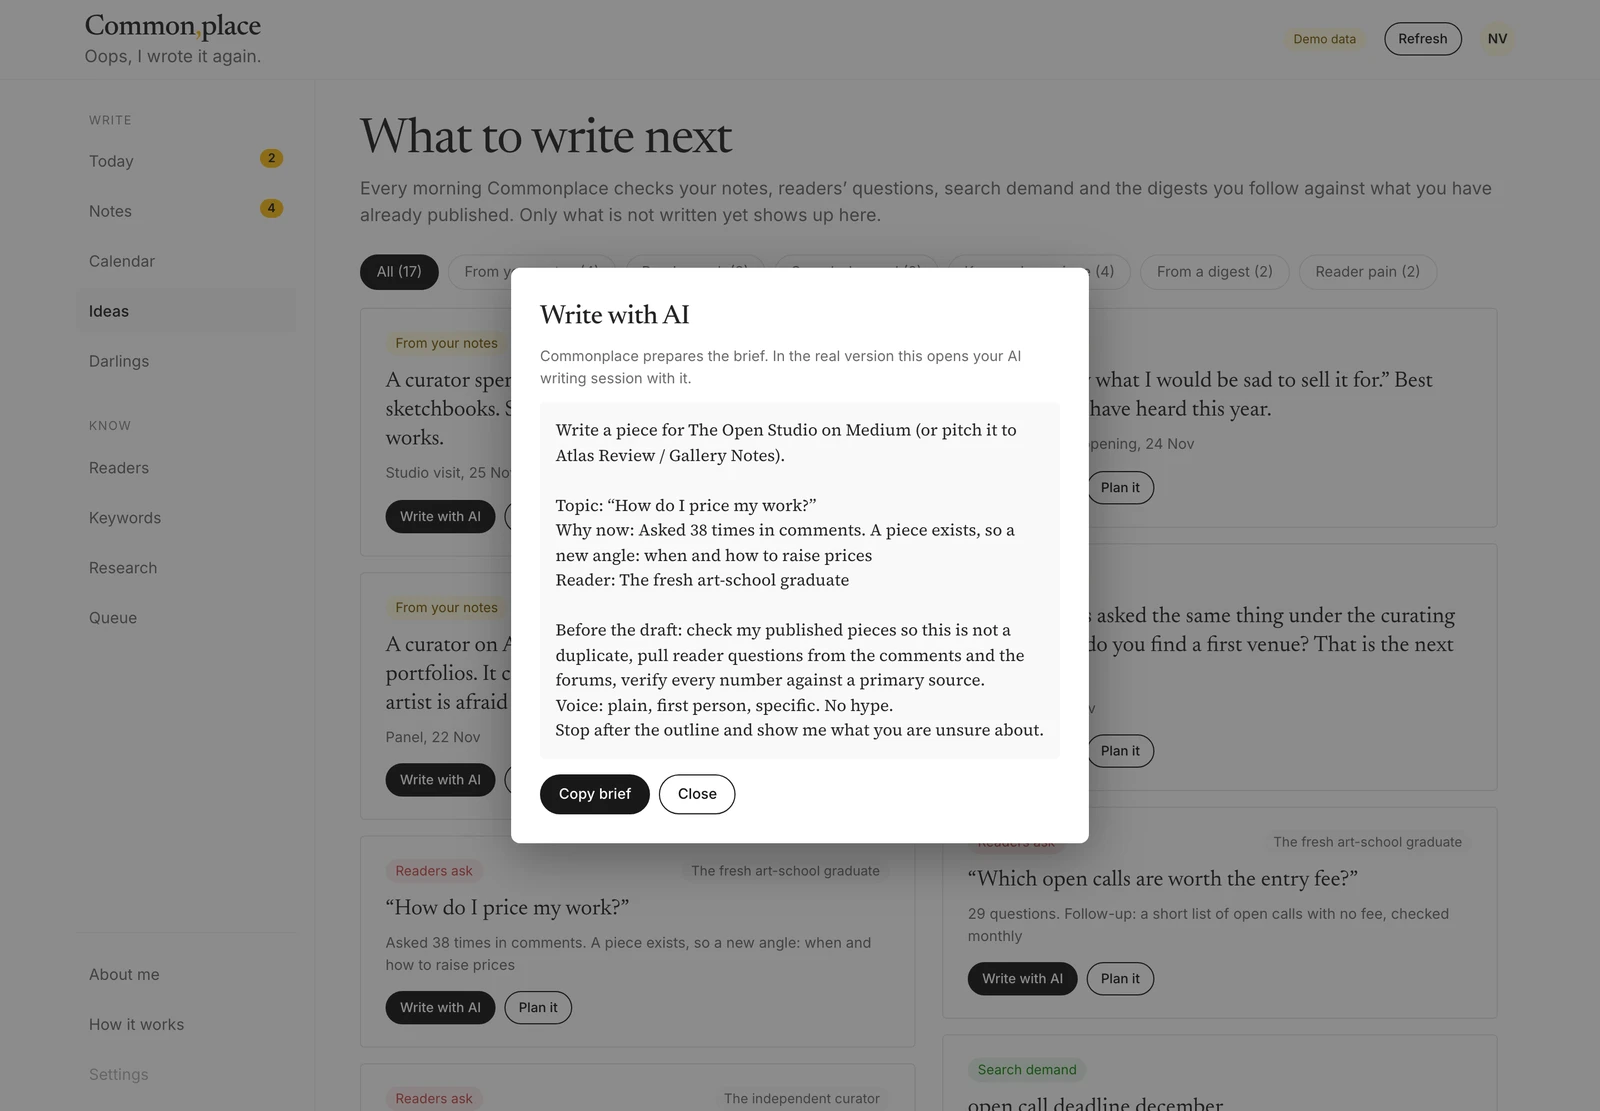
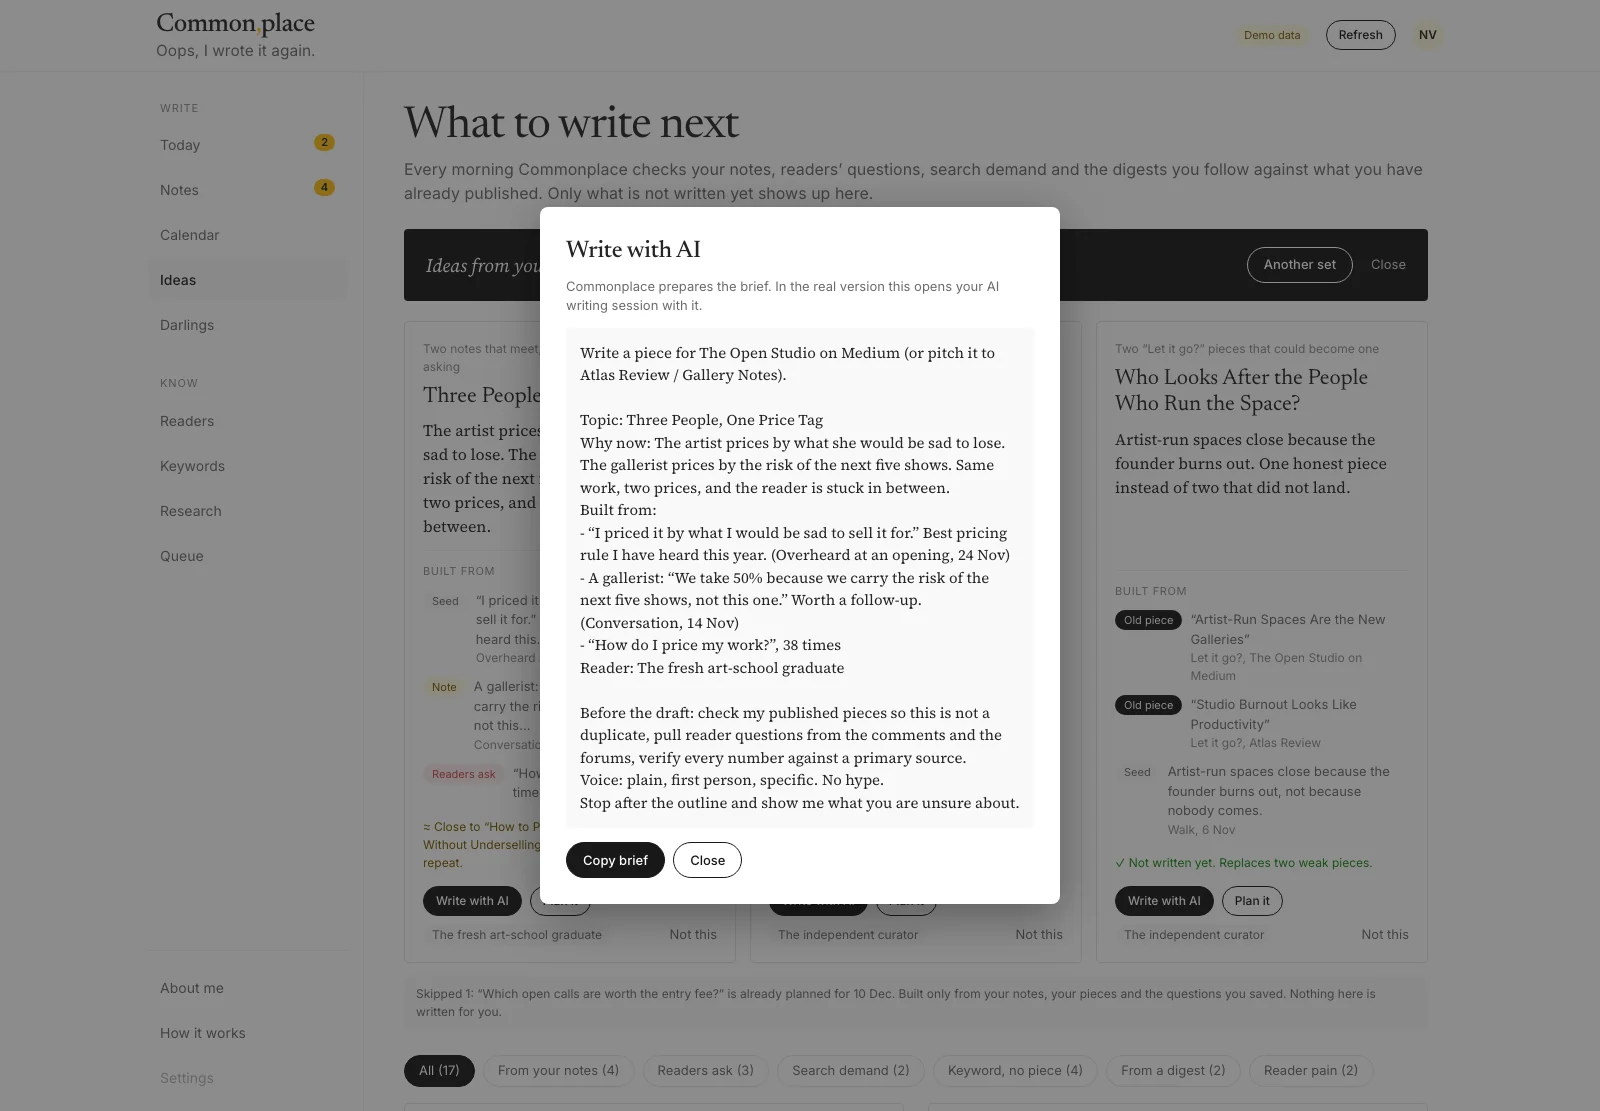
Ideas: Empty head, ideas put together from her own notes, pieces and saved questions (two sets of three, Built from, duplicate check, Write with AI / Plan it). Case: 16:00 becomes the empty-head moment, 16:15 takes its first idea to the brief; a fifth need

diff --git a/index.html b/index.html
@@ -278,6 +278,26 @@ button,a,.chip,.nav{-webkit-tap-highlight-color:transparent;touch-action:manipul
   .pm td{display:block;border:0;padding:2px 0}
   .pm td[data-k]::before{content:attr(data-k) ": ";color:var(--muted)}
 }
+/* ---- Ideas: empty head, ideas put together from the writer's own notes and pieces ---- */
+.ehead{display:flex;gap:12px 18px;align-items:center;flex-wrap:wrap;background:var(--ink2);color:#fff;border-radius:4px;padding:18px 22px;margin:0 0 20px}
+.ehead .q{font-family:var(--serif);font-style:italic;font-size:19px;line-height:1.4;flex:1;min-width:240px}
+.ehead .btn{background:var(--yellow);border-color:var(--yellow);color:var(--ink2)}
+.ehead .btn.o{background:transparent;border-color:#fff;color:#fff}
+.ehead .link{color:#fff;opacity:.8}
+.vars{display:grid;grid-template-columns:repeat(3,minmax(0,1fr));gap:14px}
+@media(max-width:1250px){.vars{grid-template-columns:minmax(0,1fr)}}
+.var{border:1px solid var(--line2);border-radius:4px;padding:18px 18px 16px;background:#fff;display:flex;flex-direction:column;min-width:0}
+.var .rec{font-size:12px;color:var(--muted);margin-bottom:8px}
+.var .vt{font-family:var(--display);font-size:22px;line-height:1.2;margin:0 0 8px}
+.var .ang{font-family:var(--serif);font-size:16px;line-height:1.5;color:var(--ink);margin:0 0 12px}
+.var .from{border-top:1px solid var(--line);padding-top:8px;margin-top:auto}
+.var .from .fk{font-size:11px;color:var(--muted);text-transform:uppercase;letter-spacing:.06em;margin:4px 0 6px}
+.var .from .it{display:flex;gap:8px;align-items:flex-start;padding:5px 0;font-size:13px;color:var(--body)}
+.var .from .it .pill{flex:none;height:20px;font-size:11px}
+.var .from .it .w2{display:block;font-size:12px;color:var(--muted)}
+.var .chk{font-size:12px;color:var(--green);margin:10px 0 0}
+.var .chk.w{color:#7A5A00}
+.ehskip{background:var(--soft);border-radius:4px;padding:10px 12px;font-size:12px;color:var(--body);margin-top:12px}
 </style>
 </head>
 <body>
@@ -448,8 +468,37 @@ function ideasAll(){
 function vIdeas(){
   const all=ideasAll(), l=all.map((i,ix)=>({i,ix})).filter(({i})=>iF==='all'||i.source===iF), c={};all.forEach(i=>c[i.source]=(c[i.source]||0)+1);
   return `<h1>What to write next</h1><p class="lede">Every morning Commonplace checks your notes, readers’ questions, search demand and the digests you follow against what you have already published. Only what is not written yet shows up here.</p>
+  ${emptyHead()}
   <div class="chips">${[['all','All ('+all.length+')']].concat(Object.keys(SRC).filter(k=>c[k]).map(k=>[k,SRC[k][0]+' ('+c[k]+')'])).map(([k,l])=>`<button class="chip ${iF===k?'on':''}" data-if="${k}">${esc(l)}</button>`).join('')}</div>
   ${twoCols(l,idea)}`;
+}
+// Empty head: a few ideas put together from the writer's own notes, pieces and saved questions.
+// The sets are in the data as references; dates, titles and groups are read from the data here.
+let eh=-1;const ehNo=new Set();
+const ehSets=()=>D.empty_head||[];
+const cut=(s,n)=>{s=String(s||'');return s.length>n?s.slice(0,n).replace(/\s+\S*$/,'')+'…':s;};
+function ehRef(f){
+  if(f.note){const n=notesAll().find(x=>x.id===f.note);if(!n)return null;return [n.status==='seed'?'Seed':'Note',n.status==='seed'?'':'yp',cut(n.text,90),`${n.source}, ${fdate(n.date)}`];}
+  if(f.piece){const a=art(f.piece);return ['Old piece','k',`“${a.title}”`,`${GN[a.group]||''}, ${a.publication}`];}
+  if(f.ask)return ['Readers ask','r',`${f.ask}, ${f.n} times`];
+  if(f.digest)return ['Digest','g',f.digest];
+  if(f.pain)return ['Reader pain','',f.pain];
+  return null;}
+const ehVar=(s,i)=>ehSets()[s].vars[i];
+// in the brief the notes go in full, one per line
+const ehWhy=v=>`${v.angle}\nBuilt from:\n${v.from.map(f=>{const n=f.note&&notesAll().find(x=>x.id===f.note),r=ehRef(f);if(!r)return'';return '- '+(n?`${n.text} (${n.source}, ${fdate(n.date)})`:r[2]+(r[3]?' ('+r[3]+')':''));}).filter(Boolean).join('\n')}`;
+function emptyHead(){
+  const S=ehSets();if(!S.length)return'';
+  if(eh<0)return `<div class="ehead"><div class="q">Empty head today? Commonplace can put a few ideas together from your own notes and pieces.</div><button class="btn" data-eh="0">Put something together</button></div>`;
+  const s=S[eh],vs=s.vars.map((v,i)=>({v,i})).filter(({i})=>!ehNo.has(eh+'-'+i));
+  const pl=calAll().find(e=>e.id===s.skip.plan);
+  return `<div class="ehead"><div class="q">${vs.length?'Ideas from your own notes and pieces. Pick one, or ask for another set.':'Nothing left in this set.'}</div><button class="btn o" data-eh="next">Another set</button><button class="link" data-eh="close">Close</button></div>
+   <div class="vars">${vs.map(({v,i})=>{const c=v.check.close?art(v.check.close):null;return `<div class="var"><div class="rec">${esc(v.recipe)}</div><div class="vt">${esc(v.title)}</div><p class="ang">${esc(v.angle)}</p>
+    <div class="from"><div class="fk">Built from</div>${v.from.map(ehRef).filter(Boolean).map(([p,c2,t,w])=>`<div class="it"><span class="pill ${c2}">${esc(p)}</span><span>${esc(t)}${w?`<span class="w2">${esc(w)}</span>`:''}</span></div>`).join('')}</div>
+    <p class="chk ${c?'w':''}">${c?`≈ Close to “${esc(c.title)}” (${esc(GN[c.group])}). `:'✓ '}${esc(v.check.text)}</p>
+    <div class="acts"><button class="btn sm" data-eh-write="${eh}-${i}">Write with AI</button><button class="btn sm o" data-eh-plan="${eh}-${i}">Plan it</button><span class="pill">${esc(persona(v.reader))}</span><button class="link" data-eh-no="${eh}-${i}" style="margin-left:auto;color:var(--body)">Not this</button></div></div>`;}).join('')}</div>
+   <div class="ehskip">Skipped 1: ${esc(s.skip.ask)} is already planned${pl?' for '+esc(fdate(pl.date)):''}. Built only from your notes, your pieces and the questions you saved. Nothing here is written for you.</div>
+   <div style="height:24px"></div>`;
 }
 const ideaTitle=i=>i.source==='pain'||i.source==='note'||i.source==='telegram'||i.source==='painmap'?i.cluster:i.keyword;
 function idea({i,ix}){
@@ -589,6 +638,10 @@ document.addEventListener('click',e=>{
   else if(s.more){MORE[s.more]=!MORE[s.more];render();}
   else if(s.df){dFilter=s.df;render();} else if(s.kf){kwF=s.kf;render();} else if(s.if){iF=s.if;render();} else if(s.nf){nF=s.nf;render();} else if(s.ra){rAud=s.ra;render();}
   else if(s.mini){miniF=s.mini;render();}
+  else if(s.eh){eh=s.eh==='close'?-1:s.eh==='next'?(eh+1)%ehSets().length:+s.eh;render();}
+  else if(s.ehNo){ehNo.add(s.ehNo);render();}
+  else if(s.ehWrite){const [a,b]=s.ehWrite.split('-').map(Number),v=ehVar(a,b);writeDialog(v.title,ehWhy(v),v.reader);}
+  else if(s.ehPlan){const [a,b]=s.ehPlan.split('-').map(Number);planDialog({title:ehVar(a,b).title});}
   else if(s.cal){calOff+=+s.cal;render();} else if(s.layer){layers[s.layer]=!layers[s.layer];render();}
   else if(s.open){tab='darlings';dFilter='all';render();const el=document.getElementById('a-'+s.open);if(el){el.scrollIntoView({block:'start'});scrollBy(0,-72);}}
   else if(s.planNew){planDialog({});}

diff --git a/day.html b/day.html
@@ -199,6 +199,7 @@ footer{border-top:1px solid var(--line);padding-block:32px 64px;font-size:14px;c
       <li><span>When I start the day</span><b>I want to see what needs me first, before I open five tabs.</b></li>
       <li><span>When I notice something</span><b>I want to keep it in one place, so it can grow into a piece.</b></li>
       <li><span>When I choose the next topic</span><b>I want evidence that readers ask for it and that I have not written it already.</b></li>
+      <li><span>When nothing comes</span><b>I want a few ideas made from what I already have, not a blank page.</b></li>
       <li><span>When a plan slips</span><b>I want the calendar to tell me honestly.</b></li>
     </ul>
   </div>
@@ -248,18 +249,18 @@ footer{border-top:1px solid var(--line);padding-block:32px 64px;font-size:14px;c
 <article class="scene" id="t1600">
   <div class="time"><b>16:00</b><span>Café, late lunch</span><img class="ill" src="shots/day/nora-gpt-e/1600.webp" width="402" height="402" alt="Nora at a cafe table, lunch and laptop"></div>
   <div class="story">
-    <p class="say">“What should I write next?”</p>
-    <p>Over a late lunch in a café, she opens Ideas on the laptop. It collects five sources: her own notes, readers' questions from the comments, search demand, keywords with no piece yet, and the digests she follows. Each one is checked against what she has already published.</p>
-    <div class="why"><div class="k">Why it looks like this</div><p>Every idea says where it comes from and why now. A second piece on a topic that already has one is easy to write by accident; here it cannot show up.</p></div>
+    <p class="say">“My head is empty.”</p>
+    <p>Over a late lunch in a café, she opens Ideas on the laptop, and nothing comes. She presses Put something together. Commonplace takes what she already has, her notes, her old pieces, the questions readers keep asking, and puts three ideas together. Each one shows what it is built from.</p>
+    <div class="why"><div class="k">Why it looks like this</div><p>A long list does not help when the head is empty; three ideas made of her own material do. Each is checked against what she has already published: an idea that is already planned is skipped, not shown twice.</p></div>
   </div>
-  <figure class="stage"><span class="tag">In the app, desktop</span><div class="win"><div class="bar"><i></i><i></i><i></i><span>commonplace / ideas</span></div><img src="shots/day/1600-ideas.webp" width="1600" height="1111" alt="Ideas screen with sources as filters"></div></figure>
+  <figure class="stage"><span class="tag">In the app, desktop</span><div class="win"><div class="bar"><i></i><i></i><i></i><span>commonplace / ideas / empty head</span></div><img src="shots/day/1600-empty-head.webp" width="1600" height="1111" alt="Ideas with three ideas put together from her own notes and pieces, each with what it is built from"></div></figure>
 </article>
 
 <article class="scene" id="t1615">
   <div class="time"><b>16:15</b><span>Still at the café</span><img class="ill" src="shots/day/nora-gpt-e/1615.webp" width="402" height="402" alt="Nora typing at the cafe"></div>
   <div class="story">
     <p class="say">“Help me start. Don't write it for me.”</p>
-    <p>“How do I price my work?” came up 38 times in the comments. A piece already exists, so the new angle is when and how to raise prices. Nora presses Write with AI. Commonplace prepares the brief: the topic, why now, who reads it, and her rules.</p>
+    <p>She takes the first idea, Three People, One Price Tag: a line overheard at an opening, a gallerist's remark, and “How do I price my work?”, asked 38 times in the comments. Nora presses Write with AI. Commonplace prepares the brief: the topic, why now, what it is built from, who reads it, and her rules.</p>
     <div class="why"><div class="k">Why it looks like this</div><p>The brief carries the rules she writes by: check for duplicates, verify every number against a primary source, plain voice, stop after the outline. AI drafts and checks, she writes and decides.</p></div>
   </div>
   <figure class="stage"><span class="tag">In the app, desktop</span><div class="win"><div class="bar"><i></i><i></i><i></i><span>commonplace / ideas / write with AI</span></div><img src="shots/day/1615-brief.webp" width="1600" height="1111" alt="Write with AI dialog with a prepared brief"></div></figure>

diff --git a/make_demo_data.py b/make_demo_data.py
@@ -247,6 +247,42 @@ ideas = [
     {"source": "painmap", "keyword": None, "cluster": "The second job eats the studio", "audience": "daytime", "why": "8–12 studio hours a week (demo)", "use_case": "Essays", "score": 4},
 ]
 
+# ---------------------------------------------------------------- empty head
+# “Nothing to write about today?” Ideas put together from what the writer already has: two or three of her own
+# notes, pieces and saved reader questions per idea. Only references here (note ids, slugs, plan ids):
+# dates, titles and groups are read from the data by the app. No dates in this block, so it can be added
+# to an existing latest.json without regenerating it (see add_empty_head.py).
+empty_head = [
+    {"vars": [
+        {"recipe": "Two notes that meet, and a question readers keep asking", "title": "Three People, One Price Tag",
+         "angle": "The artist prices by what she would be sad to lose. The gallerist prices by the risk of the next five shows. Same work, two prices, and the reader is stuck in between.",
+         "reader": "graduate", "from": [{"note": "n-02"}, {"note": "n-07"}, {"ask": "“How do I price my work?”", "n": 38}],
+         "check": {"close": "pricing-first-works", "text": "A follow-up, not a repeat."}},
+        {"recipe": "A faded piece and a fresh note", "title": "What the Algorithm Missed",
+         "angle": "A month after letting an algorithm curate a show, back in a studio: the one thing it could not see.",
+         "reader": "curator", "from": [{"piece": "ai-curating"}, {"note": "n-10"}],
+         "check": {"text": "Not written yet. Brings back a faded piece."}},
+        {"recipe": "Two “Let it go?” pieces that could become one", "title": "Who Looks After the People Who Run the Space?",
+         "angle": "Artist-run spaces close because the founder burns out. One honest piece instead of two that did not land.",
+         "reader": "curator", "from": [{"piece": "artist-run-spaces"}, {"piece": "studio-burnout"}, {"note": "n-09"}],
+         "check": {"text": "Not written yet. Replaces two weak pieces."}}],
+     "skip": {"ask": "“Which open calls are worth the entry fee?”", "plan": "p15"}},
+    {"vars": [
+        {"recipe": "A faded piece and a fresh note", "title": "Send the Sketchbook, Not Only the PDF",
+         "angle": "A curator spent 4 minutes on the walls and 20 on the sketchbooks. What that means for the portfolio you send.",
+         "reader": "graduate", "from": [{"piece": "portfolio-pdf"}, {"note": "n-01"}],
+         "check": {"text": "Not written yet. Brings back a faded piece."}},
+        {"recipe": "An old seed and a faded piece", "title": "The Show With No Wall Texts",
+         "angle": "The best show this month had no wall texts, and people talked to each other. What young curators can take from that.",
+         "reader": "curator", "from": [{"note": "n-05"}, {"piece": "biennale-notes"}],
+         "check": {"text": "Not written yet."}},
+        {"recipe": "A digest headline and a reader pain", "title": "Who Pays the Artist When the Show Is Free?",
+         "angle": "Museums start paying exhibition fees. Small shows mostly do not. A plain look at who pays whom.",
+         "reader": "daytime", "from": [{"digest": "Museums start paying exhibition fees to living artists"}, {"pain": "Artist fees missing in many small shows"}, {"note": "n-07"}],
+         "check": {"close": "gallery-commission", "text": "A different question."}}],
+     "skip": {"ask": "“How do I curate my first show with no venue?”", "plan": "p3"}},
+]
+
 # ---------------------------------------------------------------- calendar
 calendar = []
 for a in articles:
@@ -310,7 +346,7 @@ data = {
                   "personas": personas, "confirmed_pains": confirmed,
                   "content_not_offer": "Asked about, but not worth a piece yet: which brushes, which camera for artwork photos, studio lighting."},
     "pain_map": pain_map, "research_extra": {"docs": research_docs, "sections": [], "pains": [], "ideas": []},
-    "telegram": feeds, "ideas": ideas, "notes": notes, "calendar": calendar, "profile": profile, "publications": PUBS,
+    "telegram": feeds, "ideas": ideas, "empty_head": empty_head, "notes": notes, "calendar": calendar, "profile": profile, "publications": PUBS,
     "calendar_notion": True, "calendar_ig": True, "stale_notion": 0,
 }
 os.makedirs(os.path.dirname(OUT), exist_ok=True)

diff --git a/add_empty_head.py b/add_empty_head.py
@@ -1,0 +1,24 @@
+"""Add the `empty_head` block from make_demo_data.py to the existing data/latest.json, without regenerating it.
+
+make_demo_data.py counts every date from the day it runs, so a full rerun moves the whole demo by days.
+This script reads only the `empty_head` literal (it has no dates) and puts it into latest.json.
+
+Run: python3 add_empty_head.py
+"""
+import ast
+import json
+import os
+
+HERE = os.path.dirname(os.path.abspath(__file__))
+src = open(os.path.join(HERE, 'make_demo_data.py'), encoding='utf-8').read()
+node = next(n for n in ast.parse(src).body
+            if isinstance(n, ast.Assign) and getattr(n.targets[0], 'id', None) == 'empty_head')
+empty_head = ast.literal_eval(node.value)
+
+path = os.path.join(HERE, 'data', 'latest.json')
+data = json.load(open(path, encoding='utf-8'))
+data['empty_head'] = empty_head
+with open(path + '.tmp', 'w', encoding='utf-8') as fh:
+    json.dump(data, fh, ensure_ascii=False, indent=1)
+os.replace(path + '.tmp', path)
+print('empty_head:', len(empty_head), 'sets,', sum(len(s['vars']) for s in empty_head), 'ideas ->', path)
